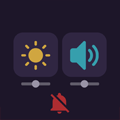
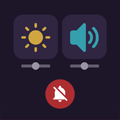
ui changes

diff --git a/ios/WidgetExtension/WidgetExtension.swift b/ios/WidgetExtension/WidgetExtension.swift
@@ -59,7 +59,7 @@ struct Provider: IntentTimelineProvider {
   struct MyWidgetEntryView : View {
     var entry: Provider.Entry;
     var body: some View {
-      ZStack {
+      ZStack() {
         Color(red: 29/255, green: 22/255, blue: 41/255).ignoresSafeArea()
           HStack(spacing: 8) {
             VStack() {
@@ -74,15 +74,9 @@ struct Provider: IntentTimelineProvider {
               Text(entry.volumeValue)
                 .foregroundColor(.white)
             }
-//            HStack() {
-//              Image(uiImage: UIImage(named: entry.silentIcon)!).resizable()
-//                .frame(width: 26.0, height: 26.0).padding(5).background(Color(red: 42/255, green: 32/255, blue: 59/255)).cornerRadius(8)
-//              Text(entry.silentValue).frame(width: 80, alignment: .leading)
-//                .foregroundColor(.white)
-//            }
-          }.scaledToFit()
-      }.overlay(entry.silentIcon == "s" ? Image(uiImage: UIImage(named: entry.silentIcon)!).resizable().padding(10)
-        .frame(width: 44.0, height: 44.0): nil, alignment: .bottom)
+          }.scaledToFit().padding(EdgeInsets(top: entry.silentIcon == "s" ? -32 : 0, leading: 0, bottom: 0, trailing: 0))
+      }.overlay(entry.silentIcon == "s" ? Image(uiImage: UIImage(named: entry.silentIcon)!).resizable().padding(EdgeInsets(top: 0, leading: 0, bottom: 16, trailing: 0))
+        .frame(width: 32.0, height: 48.0): nil, alignment: .bottom)
     }
   }
 
